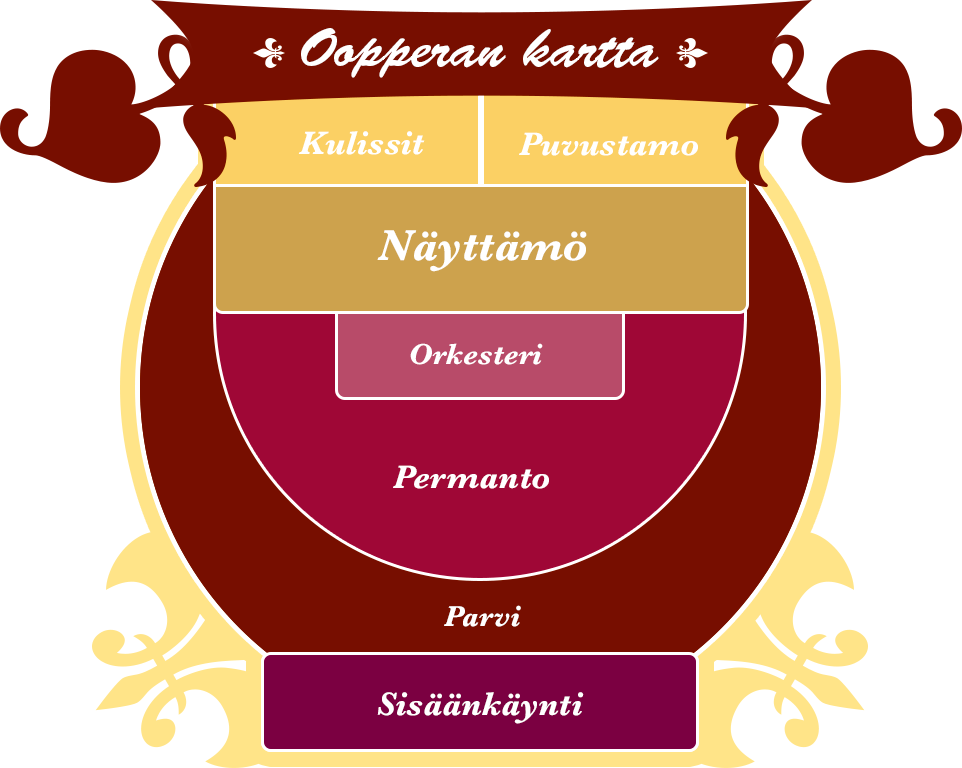
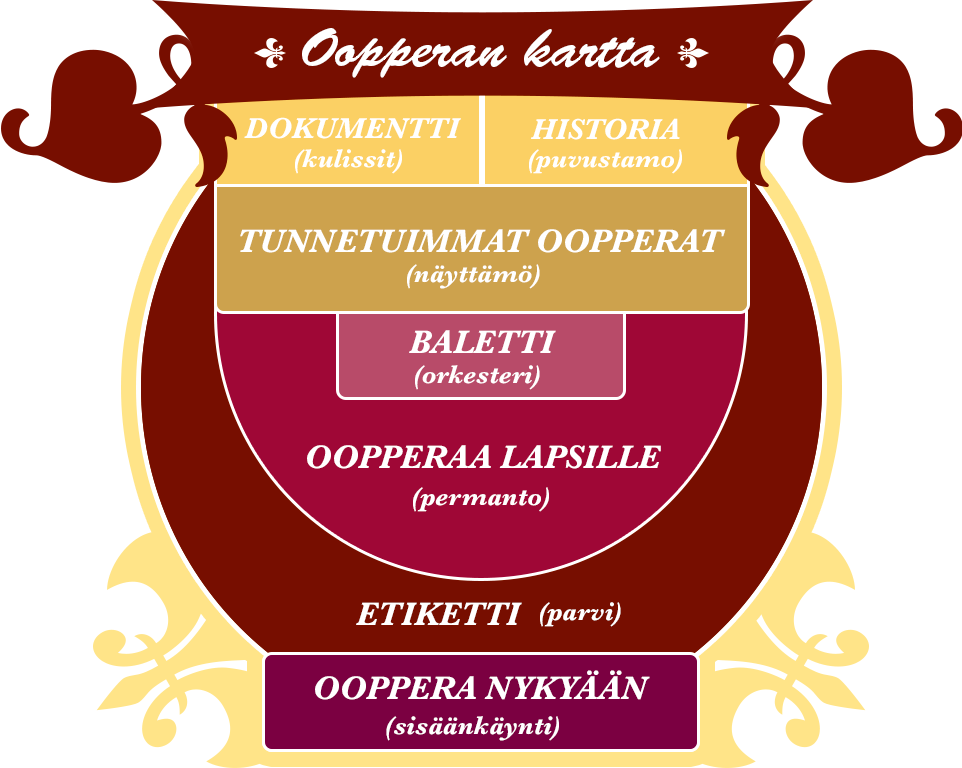
added separate list for map in mobile view

diff --git a/index.html b/index.html
@@ -2,6 +2,7 @@
 <html>
 <head>
     <meta http-equiv="Content-Type" content="text/html; charset=utf-8" />
+    <meta name="viewport" content="width=device-width, initial-scale=1">
 	<link rel="stylesheet" href="https://maxcdn.bootstrapcdn.com/bootstrap/3.3.1/css/bootstrap.min.css">
 	<link rel="stylesheet" href="css/style.css">
 	
@@ -23,8 +24,11 @@
 	<div class="modal fade custom_modal" id="mapModal" tabindex="-1" role="dialog">
     	<div class="modal-dialog">
     		<div class="modal-content">
+    		
+	    		<button style="padding-right:10px;" type="button" class="close" data-dismiss="modal"><span style="font-size:30px;" aria-hidden="true">×</span><span class="sr-only">Close</span></button>
+		        
     			<div class="row">
-    				<div id="kartta" class="col-xs-8 col-xs-offset-2 col-sm-12 col-sm-offset-0">
+    				<div id="kartta" class="col-xs-12 col-xs-offset-0 col-sm-12 col-sm-offset-0">
     					
                         <img name="opera_kartta_hotspots" src="images/opera_kartta_hotspots.png" width="962" height="768" id="opera_kartta_hotspots" usemap="#m_opera_kartta_hotspots" alt="" />
                         <map name="m_opera_kartta_hotspots" id="m_opera_kartta_hotspots">
@@ -37,27 +41,127 @@
                         <area shape="poly" group="koti" coords="264,655,696,655,696,749,264,749,264,655" href="#koti" alt="" />
                         </map>
     				</div>
-    				<!--<div class="col-xs-8 col-xs-offset-2 col-sm-6 col-sm-offset-0">
-    					<ul class="menuList">
-    						<li>Kulissit</li>
-    						<li>Puvustamo</li>
-    						<li>Näyttämö</li>
-    						<li>Orkesteri</li>
-    						<li>Permanto</li>
-    						<li>Parvi 1</li>
-    						<li>Parvi 2</li>
-    						<li>Sisäänkäynti</li>
-    					</ul>	
-    				</div>-->
     			</div>
+    			
     			<div class="row">
     				<div class="col-xs-12">
     					<div class="infoBox">
-    						<p>Voit siirtyä uudelle alueelle valitsemalla kohteen listalta. Jokaiselta alueelta löydät erilaista
-    							tietoa Oopperan hienosta maailmasta. BlaaBlaaBlaa blaa blaa blaaaaa.</p>
+    						<p>Voit siirtyä uudelle alueelle valitsemalla kohteen yllä olevasta kartasta. <br><br>Jokaiselta alueelta löydät erilaista tietoa Oopperan hienosta maailmasta.</p>
+    						<p class="visible-xs visible-sm">Voit myös valita haluamasi kohteen alla olevasta listasta.</p>
     					</div>	
     				</div>
-    			</div>	
+    			</div>
+    			
+    			<div class="visible-xs visible-sm">
+    				<div class="panel-group" id="accordion" role="tablist" aria-multiselectable="true">
+    				
+					  <div class="panel panel-default">
+					    <div class="panel-heading" role="tab" id="headingOne">
+					      <h4 class="panel-title">
+					        <a class="collapsed" data-toggle="collapse" data-parent="#accordion" href="#collapseOne" aria-expanded="false" aria-controls="collapseOne">
+					          Ooppera nykyään
+					        </a>
+					      </h4>
+					    </div>
+					    <div id="collapseOne" class="panel-collapse collapse" role="tabpanel" aria-labelledby="headingOne">
+					      <div class="panel-body">
+					        <p>Tutustu oopperan tämän hetkiseen tilanteeseen.<br><br><a href="index.html"><button class="btn btn-default">Katso sivu!</button></a></p>
+					      </div>
+					    </div>
+					  </div>
+					  
+					  <div class="panel panel-default">
+					    <div class="panel-heading" role="tab" id="headingTwo">
+					      <h4 class="panel-title">
+					        <a class="collapsed" data-toggle="collapse" data-parent="#accordion" href="#collapseTwo" aria-expanded="false" aria-controls="collapseTwo">
+					          Etiketti
+					        </a>
+					      </h4>
+					    </div>
+					    <div id="collapseTwo" class="panel-collapse collapse" role="tabpanel" aria-labelledby="headingTwo">
+					      <div class="panel-body">
+					        <p>Selvitä minkälainen etiketti oopperaan liityy.<br><br><a href="oopperan-etiketti.html"><button class="btn btn-default">Katso sivu!</button></a></p>
+					      </div>
+					    </div>
+					  </div>
+					  
+					  <div class="panel panel-default">
+					    <div class="panel-heading" role="tab" id="headingThree">
+					      <h4 class="panel-title">
+					        <a class="collapsed" data-toggle="collapse" data-parent="#accordion" href="#collapseThree" aria-expanded="false" aria-controls="collapseThree">
+					          Oopperaa lapsille
+					        </a>
+					      </h4>
+					    </div>
+					    <div id="collapseThree" class="panel-collapse collapse" role="tabpanel" aria-labelledby="headingThree">
+					      <div class="panel-body">
+					      	<p>Ooperalla on tarjota paljon erilaista aktiviteettia myös lapsille!<br><br><a href="oopperaa-lapsille.html"><button class="btn btn-default">Katso sivu!</button></a></p>
+					      </div>
+					    </div>
+					  </div>
+					  
+					  <div class="panel panel-default">
+					    <div class="panel-heading" role="tab" id="headingFour">
+					      <h4 class="panel-title">
+					        <a class="collapsed" data-toggle="collapse" data-parent="#accordion" href="#collapseFour" aria-expanded="false" aria-controls="collapseFour">
+					          Baletti
+					        </a>
+					      </h4>
+					    </div>
+					    <div id="collapseFour" class="panel-collapse collapse" role="tabpanel" aria-labelledby="headingFour">
+					      <div class="panel-body">
+					      	<p>Baletti on osa oopperaa.<br><br><a href="baletti.html"><button class="btn btn-default">Katso sivu!</button></a></p>
+					      </div>
+					    </div>
+					  </div>
+					  
+					  <div class="panel panel-default">
+					    <div class="panel-heading" role="tab" id="headingFive">
+					      <h4 class="panel-title">
+					        <a class="collapsed" data-toggle="collapse" data-parent="#accordion" href="#collapseFive" aria-expanded="false" aria-controls="collapseFive">
+					          Tunnetuimmat oopperat
+					        </a>
+					      </h4>
+					    </div>
+					    <div id="collapseFive" class="panel-collapse collapse" role="tabpanel" aria-labelledby="headingFive">
+					      <div class="panel-body">
+					      	<p>Kuuntele pätkiä tunnetuimmista oopperoista ja katso videoita niistä.<br><br><a href="tunnetuimmat-oopperat.html"><button class="btn btn-default">Katso sivu!</button></a></p>
+					      </div>
+					    </div>
+					  </div>
+					  
+					  <div class="panel panel-default">
+					    <div class="panel-heading" role="tab" id="headingSix">
+					      <h4 class="panel-title">
+					        <a class="collapsed" data-toggle="collapse" data-parent="#accordion" href="#collapseSix" aria-expanded="false" aria-controls="collapseSix">
+					          Oopperan historia
+					        </a>
+					      </h4>
+					    </div>
+					    <div id="collapseSix" class="panel-collapse collapse" role="tabpanel" aria-labelledby="headingSix">
+					      <div class="panel-body">
+					      	<p>Oopperalla on pitkä historia Suomessa.<br><br><a href="oopperan-historia.html"><button class="btn btn-default">Katso sivu!</button></a></p>
+					      </div>
+					    </div>
+					  </div>
+					  
+					  <div class="panel panel-default">
+					    <div class="panel-heading" role="tab" id="headingSeven">
+					      <h4 class="panel-title">
+					        <a class="collapsed" data-toggle="collapse" data-parent="#accordion" href="#collapseSeven" aria-expanded="false" aria-controls="collapseSeven">
+					          Dokumentti
+					        </a>
+					      </h4>
+					    </div>
+					    <div id="collapseSeven" class="panel-collapse collapse" role="tabpanel" aria-labelledby="headingSeven">
+					      <div class="panel-body">
+					      	<p>Tutustu mitä kaikkea vaaditaan oopperan tekemiseen.<br><br><a href="behind-the-scenes.html"><button class="btn btn-default">Katso sivu!</button></a></p>
+					      </div>
+					    </div>
+					  </div>
+					  
+					</div>
+				</div>
     		</div>
     	</div>
 	</div>  	
